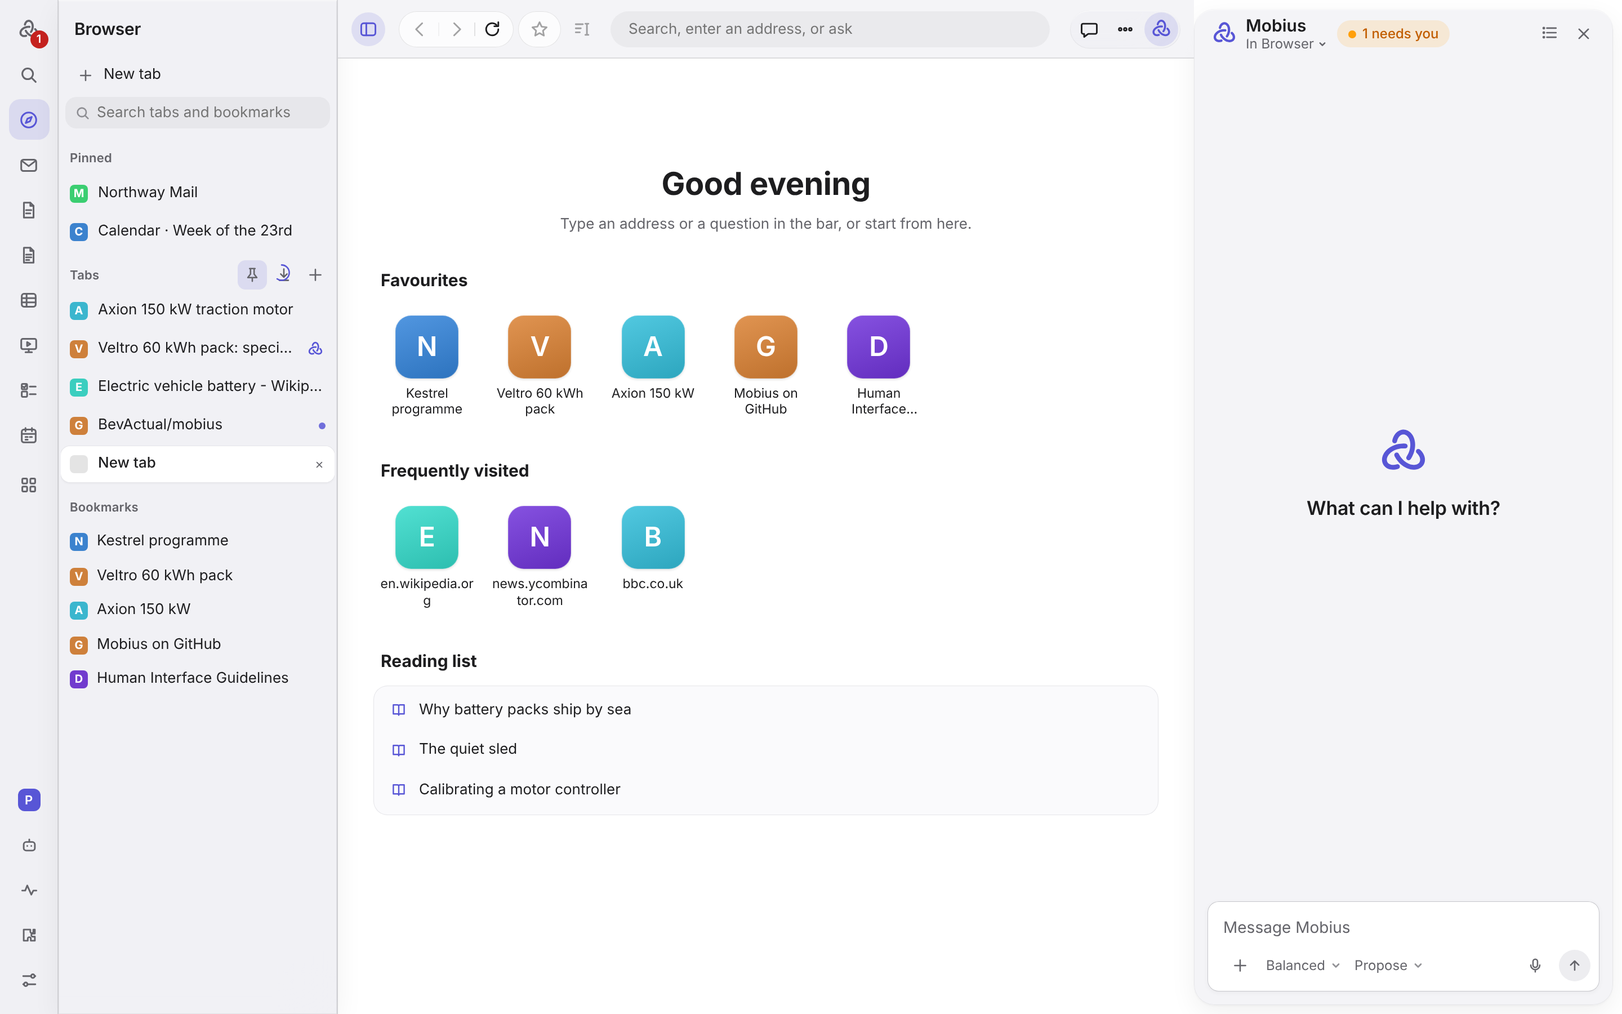
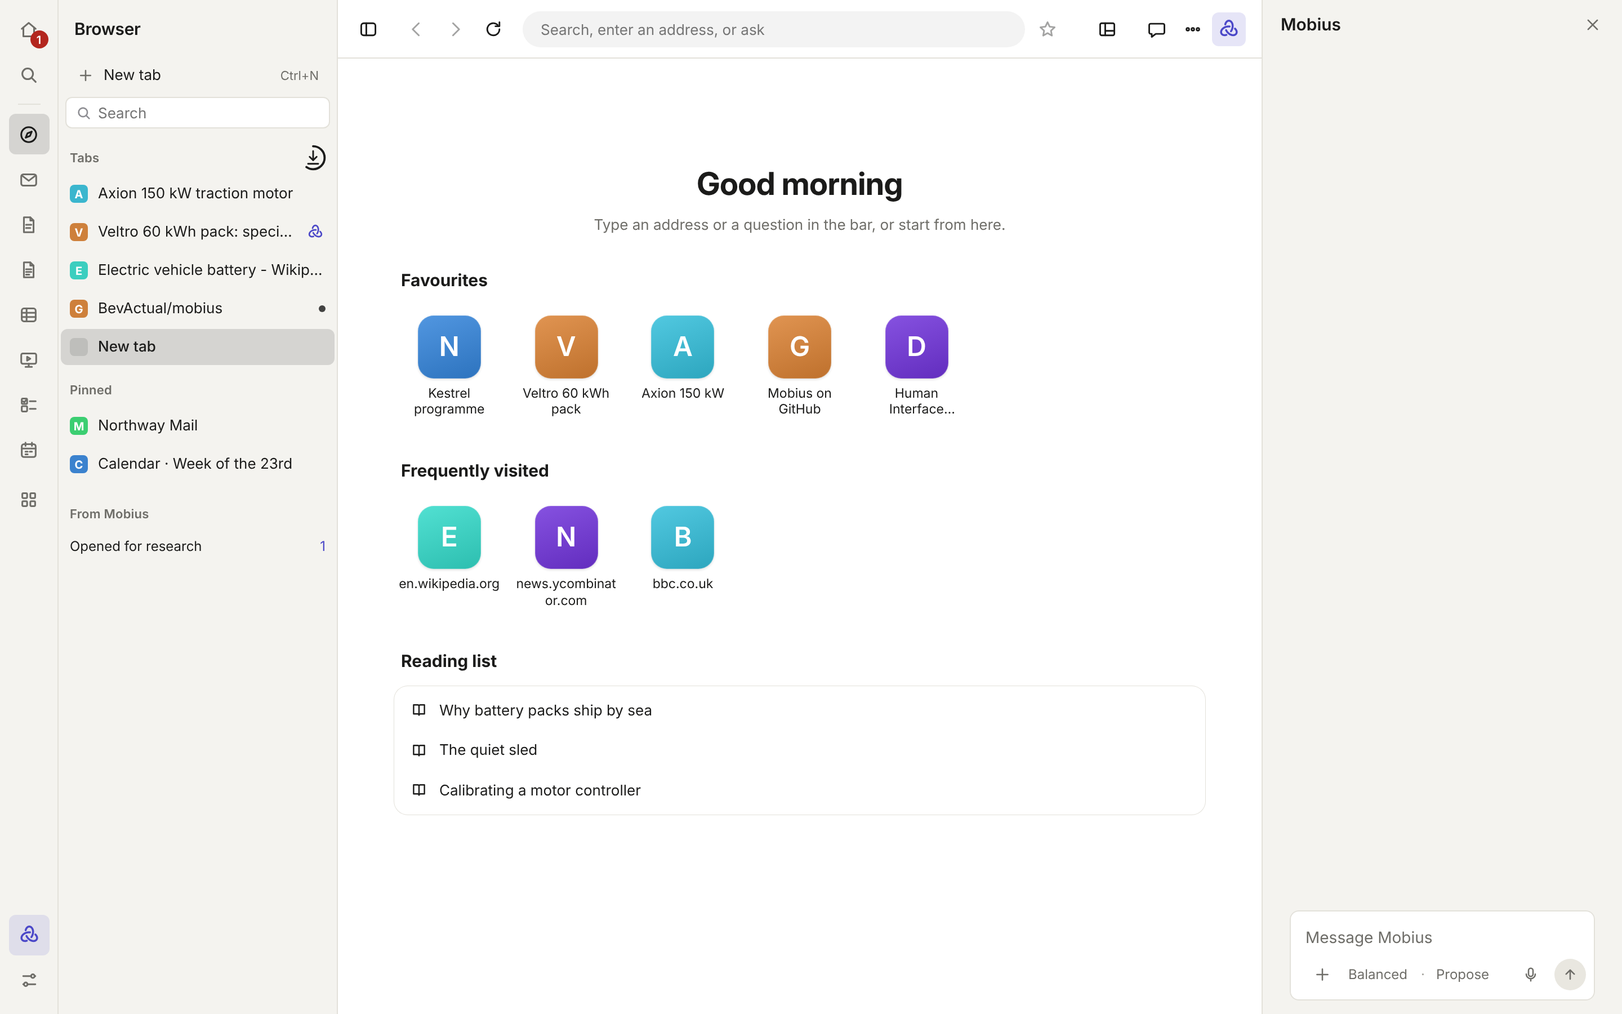
Browser: timeless redesign of the toolbar, sidebar and tab rows
Toolbar: back, forward, reload, the address (site in ink, path in grey) and the star;
pin and selected text move to the menus. Sidebar: Search, Tabs, Pinned, From Mobius.
Tab rows are plain; their buttons show on hover and make room for the title.

Claude-Session: https://claude.ai/code/session_01VRGwo7JFbuvwaD27M65Dsc

diff --git a/apps/desktop/src/Browser.tsx b/apps/desktop/src/Browser.tsx
@@ -53,11 +53,10 @@ function TabRow({ tab, onMenu, drag }: { tab: BrowserTabState; onMenu: (tab: Bro
         {tab.icon ? <img className="tab-icon" src={tab.icon} alt="" width={16} height={16} draggable={false} /> : <span className="tab-icon placeholder" aria-hidden="true" style={tab.url ? { ['--hue' as string]: tileHue(site) } : undefined}>{tab.url ? tileLetter(site) : ''}</span>}
         <span className="tab-title">{tab.title}</span>
         {tab.driver && (
-          // A small mark, not a word, so the title keeps its room: Mobius's mark while it reads or uses the tab, a hand once you took it over.
+          // A small mark, not a word, so the title keeps its room: Mobius's mark only while Mobius reads or uses the tab; once you
+          // took it over it is a plain row again (the words stay for screen readers).
           <span className="tab-driver" data-driver={tab.driver} title={TAB_DRIVER_TITLE[tab.driver]}>
-            {tab.driver === 'yours'
-              ? <svg viewBox="0 0 20 20" aria-hidden="true"><path d="M7 10V4.8a1.2 1.2 0 0 1 2.4 0V9m0-.5V3.8a1.2 1.2 0 0 1 2.4 0V9m0-.2V5a1.2 1.2 0 0 1 2.4 0v6.5c0 3-2 5-4.8 5-2 0-3.2-.9-4.4-2.6L4.2 11a1.2 1.2 0 0 1 2-1.3L7 11" /></svg>
-              : <MobiusMark size={14} turning={tab.driver === 'mobius'} />}
+            {tab.driver !== 'yours' && <MobiusMark size={14} turning={tab.driver === 'mobius'} />}
             <span className="sr-only">{TAB_DRIVER[tab.driver]}</span>
           </span>
         )}
@@ -165,17 +164,40 @@ export function BrowserSidebar({ tabs, pin, onNewTab, downloads, pinnedPages, on
   const bookmarks = useBookmarks();
   const drag = useTabDrag(tabs);
   const matches = (title: string, url: string) => sidebarMatch(query, title, url);
-  const pinned = tabs.filter((t) => t.pinned && matches(t.title, t.url));
-  const open = tabs.filter((t) => !t.pinned && matches(t.title, t.url));
-  const saved = bookmarks.filter((b) => matches(b.title, b.url)).slice(0, query ? 20 : 8);
+  // Tabs Mobius is reading or using for its work; "From Mobius" can narrow the list to them.
+  const fromMobius = tabs.filter((t) => t.driver === 'reading' || t.driver === 'mobius');
+  const [mobiusOnly, setMobiusOnly] = useState(false);
+  const only = mobiusOnly && fromMobius.length > 0;
+  const shown = (t: BrowserTabState) => matches(t.title, t.url) && (!only || t.driver === 'reading' || t.driver === 'mobius');
+  const pinned = tabs.filter((t) => t.pinned && shown(t));
+  const open = tabs.filter((t) => !t.pinned && shown(t));
+  const saved = bookmarks.filter((b) => matches(b.title, b.url)).slice(0, 20);
   const searching = query.trim() !== '';
   const row = (tab: BrowserTabState) => <TabRow key={tab.id} tab={tab} drag={drag} onMenu={(t, x, y) => setMenu({ tab: t, x, y })} />;
   const menuTab = menu ? tabs.find((t) => t.id === menu.tab.id) : undefined;
   return (
     <AppSidebar label="Browser sidebar">
       <div className="browser-side">
-        <SidebarSearch label="Search tabs and bookmarks" placeholder="Search tabs and bookmarks" value={query} onChange={setQuery} />
+        <SidebarSearch label="Search tabs and bookmarks" placeholder="Search" value={query} onChange={setQuery} />
         <div className="tab-lists" onDragLeave={(e) => { if (!e.currentTarget.contains(e.relatedTarget as Node)) drag.end(); }}>
+          <section className="ui-side-section" aria-label="Tabs">
+            <div className="side-head">
+              <h3 className="side-title">Tabs</h3>
+              <div className="side-actions">
+                {pin}
+                <button type="button" className="strip-btn" aria-label="New tab" title="New tab (Ctrl+T)" onClick={onNewTab}>
+                  <svg viewBox="0 0 20 20" aria-hidden="true"><path d="M10 4v12M4 10h12" /></svg>
+                </button>
+              </div>
+              {/* Downloads stays in sight, at the end of the head, while it has something to show; the other tools wait for the pointer. */}
+              <DownloadsButton entries={downloads} />
+            </div>
+            <ul className="tabs" role="list" aria-label="Open tabs">
+              <AnimatePresence initial={false}>{open.map(row)}</AnimatePresence>
+            </ul>
+            {!searching && !only && open.length === 0 && pinned.length > 0 && <p className="tabs-empty">No other tabs. Press Ctrl+T for a new one.</p>}
+            {searching && open.length === 0 && pinned.length === 0 && saved.length === 0 && <p className="tabs-empty">Nothing matches.</p>}
+          </section>
           {pinned.length > 0 && (
             <section className="ui-side-section" aria-label="Pinned">
               <div className="side-head"><h3 className="side-title">Pinned</h3></div>
@@ -184,31 +206,24 @@ export function BrowserSidebar({ tabs, pin, onNewTab, downloads, pinnedPages, on
               </ul>
             </section>
           )}
-          <section className="ui-side-section" aria-label="Tabs">
-            <div className="side-head">
-              <h3 className="side-title">Tabs</h3>
-              <div className="side-actions">
-                {pin}
-                <DownloadsButton entries={downloads} />
-                <button type="button" className="strip-btn" aria-label="New tab" title="New tab (Ctrl+T)" onClick={onNewTab}>
-                  <svg viewBox="0 0 20 20" aria-hidden="true"><path d="M10 4v12M4 10h12" /></svg>
-                </button>
-              </div>
-            </div>
-            <ul className="tabs" role="list" aria-label="Open tabs">
-              <AnimatePresence initial={false}>{open.map(row)}</AnimatePresence>
-            </ul>
-            {!searching && open.length === 0 && pinned.length > 0 && <p className="tabs-empty">No other tabs. Press Ctrl+T for a new one.</p>}
-            {searching && open.length === 0 && pinned.length === 0 && <p className="tabs-empty">No tabs match.</p>}
-          </section>
         </div>
-        {saved.length > 0 && (
+        {searching && saved.length > 0 && (
           <SidebarSection title="Bookmarks">
             {saved.map((b) => (
               <SidebarRow key={b.url} label={b.title || hostOf(b.url)} title={b.url} onSelect={() => onOpenBookmark(b.url)}
                 icon={<span className="tab-icon placeholder" aria-hidden="true" style={{ ['--hue' as string]: tileHue(hostOf(b.url)) }}>{tileLetter(hostOf(b.url))}</span>} />
             ))}
           </SidebarSection>
+        )}
+        {fromMobius.length > 0 && (
+          // The tabs Mobius opened for its work, as one row: pressed, Tabs shows only those.
+          <div className="from-mobius">
+            <h3 className="side-title from-mobius-title">From Mobius</h3>
+            <button type="button" className="from-mobius-filter" aria-pressed={mobiusOnly} aria-label={`Opened for research: ${fromMobius.length} tabs`} title={mobiusOnly ? 'Show every tab again' : 'Show only the tabs Mobius opened'} onClick={() => setMobiusOnly((on) => !on)}>
+              <span className="from-mobius-label">{mobiusOnly ? 'Showing only these' : 'Opened for research'}</span>
+              <span className="from-mobius-count">{fromMobius.length}</span>
+            </button>
+          </div>
         )}
         {menu && menuTab && <TabMenu tab={menuTab} x={menu.x} y={menu.y} tabs={tabs} pinnedPages={pinnedPages} onPinPage={onPinPage} onClose={closeMenu} />}
       </div>
@@ -271,20 +286,18 @@ export function BrowserChrome({ active, saved, selectionMenu, setSelectionMenu, 
             <svg viewBox="0 0 20 20" aria-hidden="true"><path d="M16 10a6 6 0 1 1-1.8-4.3M16 3v4h-4" /></svg>
           </button>
         </div>
+        <AddressBar active={active} address={address} draft={draft} setDraft={setDraft} setNotice={setNotice} onSubmit={onSubmit} onSuggesting={onSuggesting} />
         <div className="cap-group" role="group" aria-label="This page">
-        <button type="button" className="strip-btn" aria-pressed={saved} aria-label={saved ? 'Remove bookmark' : 'Bookmark this page'} title={saved ? 'Remove bookmark' : 'Bookmark this page'} disabled={!active || !/^https?:/.test(active.url)} onClick={() => void window.mobius.bookmarks.toggle()}>
+          <button type="button" className="strip-btn" aria-pressed={saved} aria-label={saved ? 'Remove bookmark' : 'Bookmark this page'} title={saved ? 'Remove bookmark' : 'Bookmark this page'} disabled={!active || !/^https?:/.test(active.url)} onClick={() => void window.mobius.bookmarks.toggle()}>
           <svg viewBox="0 0 20 20" aria-hidden="true"><path d="M10 3l2.1 4.4 4.9.6-3.6 3.4.9 4.8L10 13.8 5.7 16.2l.9-4.8L3 8l4.9-.6z" /></svg>
         </button>
         </div>
+        {/* Selected text… is in ⋯ (the Browser menu); its menu drops from the end of the address. */}
         <div className="selection-menu-wrap">
-          <button type="button" className="strip-btn" data-selection-ask aria-haspopup="menu" aria-expanded={selectionMenu} aria-label="Selected text" title="Do something with the text selected on this page" disabled={!active || !/^https?:/.test(active.url)} onClick={() => setSelectionMenu((open) => !open)}>
-            <svg viewBox="0 0 20 20" aria-hidden="true"><path d="M3.5 5h7M3.5 9h5M3.5 13h4" /><path d="M13 4.5h3M13 15.5h3M14.5 4.5v11" /></svg>
-          </button>
           {selectionMenu && selectionReady && (
             <SelectionMenu onClose={() => setSelectionMenu(false)} onChoose={onSelection} clipTo={clipTo} pages={clipPages} onClipTo={onClipTo} />
           )}
         </div>
-        <AddressBar active={active} address={address} draft={draft} setDraft={setDraft} setNotice={setNotice} onSubmit={onSubmit} onSuggesting={onSuggesting} />
         {notice && <span className="notice" role="status">{notice}</span>}
         {findOpen && active && <FindBar key={active.id} tabId={active.id} focusToken={finding} onClose={onCloseFind} />}
       </div>
@@ -363,7 +376,8 @@ function AddressBar({ active, address, draft, setDraft, setNotice, onSubmit, onS
       {parts && (
         <span className="address-rest" aria-hidden="true">
           {parts.secure && <svg viewBox="0 0 20 20"><path d="M6 9V7a4 4 0 0 1 8 0v2M5 9h10v8H5z" /></svg>}
-          <span>{parts.host}</span>
+          <span className="address-host">{parts.host}</span>
+          {parts.path && <span className="address-path">/ {parts.path}</span>}
         </span>
       )}
       {active?.loading && <span className="address-progress" role="status" aria-label="Loading" />}

diff --git a/apps/desktop/src/browser.css b/apps/desktop/src/browser.css
@@ -13,6 +13,7 @@
 .browser-side > .ui-side-section .list-row .tab-icon { width: 16px; height: 16px; border-radius: 4px; }
 
 /* The browser's controls take the toolbar's middle, so the address gets the room. */
+.ui-toolbar-slot:has(.browser-chrome) { flex: 1 1 auto; min-width: 0; justify-content: flex-start; }
 .ui-toolbar-group:has(> .browser-chrome) { flex: 1; min-width: 0; }
 .browser-chrome .address { min-width: 64px; }
 /* In a narrow toolbar the address keeps its room: the star and the selected-text button step out (both are in the
@@ -23,8 +24,9 @@
 }
 .browser-side .tab { position: relative; height: 32px; }
 .browser-side .tab-main { height: 32px; padding: 0 8px; gap: 9px; color: var(--ink); }
-.browser-side .tab:not([aria-current="page"]):hover { background: color-mix(in srgb, var(--ink) 5%, transparent); }
-.browser-side .tab[aria-current="page"] { background: var(--bg); box-shadow: 0 0 0 0.5px var(--line), 0 1px 2px rgba(0, 0, 0, 0.06); }
+/* Plain rows, as the other sidebars: the hover and the selection are the sidebar's own greys. */
+.browser-side .tab:not([aria-current="page"]):hover { background: var(--side-hover); }
+.browser-side .tab[aria-current="page"] { background: var(--side-select); box-shadow: none; }
 .browser-side .tab-title { flex: 1 1 auto; min-width: 0; font-size: var(--fs-md, 13px); }
 .browser-side .tab[aria-current="page"] .tab-title { font-weight: 500; }
 .browser-side .tab-icon { width: 16px; height: 16px; border-radius: 4px; }
@@ -37,18 +39,15 @@
 .browser-side .tab-loading { width: 6px; height: 6px; animation: tab-pulse var(--dur-loop) var(--ease) infinite; }
 @keyframes tab-pulse { 50% { opacity: 0.25; } }
 
-/* The row's buttons float over the end of the title, so a title gets the whole row until the pointer is on it. */
-.browser-side .tab-actions { position: absolute; right: 0; top: 0; bottom: 0; display: flex; align-items: center; gap: 0; padding: 0 3px 0 18px; border-radius: 0 var(--radius-control) var(--radius-control) 0; opacity: 0; background: linear-gradient(to right, transparent, var(--row-bg) 16px); --row-bg: color-mix(in srgb, var(--ink) 5%, var(--side-bg, var(--panel))); transition: opacity var(--dur-fast, var(--dur-fast)); }
-.browser-side .tab[aria-current="page"] .tab-actions { --row-bg: var(--bg); }
+/* The row's buttons sit at the end of the row; the title gets the whole row until the pointer is on it, then
+   makes room (the sidebar greys are see-through, so the buttons can't simply cover the title). */
+.browser-side .tab-actions { position: absolute; right: 0; top: 0; bottom: 0; display: flex; align-items: center; gap: 0; padding: 0 3px; opacity: 0; transition: opacity var(--dur-fast); }
 .browser-side .tab:hover .tab-actions, .browser-side .tab:focus-within .tab-actions { opacity: 1; }
+.browser-side .tab:hover .tab-main, .browser-side .tab:focus-within .tab-main { padding-right: 72px; }
 .browser-side .tab .tab-close { opacity: 1; width: 22px; height: 22px; margin: 0; color: var(--muted); }
 .browser-side .tab .tab-close svg { width: 11px; height: 11px; }
 .browser-side .tab[data-pinned="true"] .tab-pin { color: var(--accent); }
-/* The tab that is showing keeps its close button, as in Safari; its other buttons wait for the pointer. */
-.browser-side .tab[aria-current="page"] .tab-actions { opacity: 1; }
-.browser-side .tab[aria-current="page"]:not(:hover):not(:focus-within) .tab-actions > :not(.tab-x) { opacity: 0; }
-/* Until then only the close button's end of the row is covered, so the hidden buttons do not hide the end of its title. */
-.browser-side .tab[aria-current="page"]:not(:hover):not(:focus-within) .tab-actions { background: linear-gradient(to right, transparent calc(100% - 42px), var(--row-bg) calc(100% - 26px)); }
+/* Every row, the showing one too, keeps its buttons (close, pin, duplicate) out of sight until the pointer is on it. */
 .browser-side .tabs-empty { margin: 2px 8px; font-size: var(--fs-sm); color: var(--muted); }
 
 /* Dragging: the tab being moved fades, and a line shows where it will land. */
@@ -62,8 +61,11 @@
 /* The address bar: the site's name at rest, the whole address while editing. */
 .address[data-editing] .address-rest { display: none; }
 .address:not([data-editing]) input:not(:placeholder-shown) { color: transparent; caret-color: transparent; }
-.address-rest { position: absolute; inset: 0; display: flex; align-items: center; justify-content: center; gap: 5px; padding: 0 12px; pointer-events: none; color: var(--ink); font-size: var(--fs-md, 13px); white-space: nowrap; overflow: hidden; }
+.address-rest { position: absolute; inset: 0; display: flex; align-items: center; justify-content: flex-start; gap: 6px; padding: 0 12px; pointer-events: none; color: var(--ink); font-size: var(--fs-md, 13px); white-space: nowrap; overflow: hidden; }
 .address-rest > span { overflow: hidden; text-overflow: ellipsis; }
+/* The site's name in ink, the rest of the address in grey after it, as in the mock. */
+.address-rest .address-host { flex: none; max-width: 60%; font-weight: var(--fw-medium, 500); }
+.address-rest .address-path { flex: 0 1 auto; min-width: 0; color: var(--muted); }
 .address-rest svg { flex: none; width: 12px; height: 12px; fill: none; stroke: var(--muted); stroke-width: 1.6; stroke-linecap: round; stroke-linejoin: round; }
 .address input { text-overflow: ellipsis; }
 .address[data-editing] input { text-align: left; }
@@ -120,7 +122,8 @@
 .start-page .start-reading svg { flex: none; width: 16px; height: 16px; fill: none; stroke: var(--accent); stroke-width: 1.5; stroke-linejoin: round; }
 
 /* Downloads: a button in the sidebar's head with a ring for progress, and a popover that drops down inside the sidebar. */
-.browser-side > .side-head { position: relative; }
+.browser-side .side-head { position: relative; }
+.browser-side .side-head > .side-actions { margin-left: auto; }
 .browser-side .dl-wrap { display: inline-flex; }
 .browser-side .dl-button { position: relative; }
 .browser-side .dl-button[data-busy] { color: var(--accent); }
@@ -134,6 +137,7 @@
 .browser-side .dl-actions { gap: 10px; }
 .browser-side .dl-btn { height: auto; padding: 0; font-size: var(--fs-sm); color: var(--accent); background: none; }
 .browser-side .dl-btn:hover { text-decoration: underline; text-underline-offset: 2px; }
-/* A bookmarked or pinned page shows in the accent colour, drawn in outline like the other tools. */
-.strip-middle .strip-btn[aria-pressed="true"] svg { fill: none; }
+/* A saved page shows a filled star, not a pressed box. */
+.browser-chrome [aria-label="This page"] .strip-btn[aria-pressed="true"] { background: none; }
+.browser-chrome [aria-label="This page"] .strip-btn[aria-pressed="true"] svg { fill: currentColor; }
 .browser-side .dl-item .dl-btn { align-self: flex-start; }

diff --git a/apps/desktop/src/browser-view.ts b/apps/desktop/src/browser-view.ts
@@ -9,12 +9,14 @@ import type { BookmarkEntry, BrowserTabState, HistoryEntry } from '@mobius/share
 export const hostOf = (url: string): string => { try { return new URL(url).hostname.replace(/^www\./, '') || url; } catch { return url; } };
 
 /** An address as Safari shows it at rest: whether the connection is private, and the site's name alone. */
-export function addressParts(url: string): { secure: boolean; host: string } | null {
+export function addressParts(url: string): { secure: boolean; host: string; path: string } | null {
   if (!url || !/^(https?|file):/i.test(url)) return null;
   try {
     const u = new URL(url);
-    if (u.protocol === 'file:') return { secure: false, host: decodeURIComponent(u.pathname.split('/').pop() || 'File') };
-    return { secure: u.protocol === 'https:', host: u.hostname.replace(/^www\./, '') };
+    if (u.protocol === 'file:') return { secure: false, host: decodeURIComponent(u.pathname.split('/').pop() || 'File'), path: '' };
+    // The path after the site's name, without its first slash or a lone trailing one ("packs/60kwh"); empty on a site's home.
+    const path = decodeURIComponent(`${u.pathname}${u.search}`).replace(/^\//, '').replace(/\/$/, '');
+    return { secure: u.protocol === 'https:', host: u.hostname.replace(/^www\./, ''), path };
   } catch {
     return null;
   }

diff --git a/apps/desktop/src/browser-view.test.ts b/apps/desktop/src/browser-view.test.ts
@@ -6,9 +6,10 @@ const tab = (id: string, url: string, title: string, extra: Partial<BrowserTabSt
 
 describe('the address at rest', () => {
   it('shows the site name and whether the connection is private', () => {
-    expect(addressParts('https://www.veltro.example/packs?x=1')).toEqual({ secure: true, host: 'veltro.example' });
-    expect(addressParts('http://localhost:5173/')).toEqual({ secure: false, host: 'localhost' });
-    expect(addressParts('file:///C:/Users/me/Report%201.pdf')).toEqual({ secure: false, host: 'Report 1.pdf' });
+    expect(addressParts('https://www.veltro.example/packs?x=1')).toEqual({ secure: true, host: 'veltro.example', path: 'packs?x=1' });
+    expect(addressParts('https://axion.example/motors/150/')).toEqual({ secure: true, host: 'axion.example', path: 'motors/150' });
+    expect(addressParts('http://localhost:5173/')).toEqual({ secure: false, host: 'localhost', path: '' });
+    expect(addressParts('file:///C:/Users/me/Report%201.pdf')).toEqual({ secure: false, host: 'Report 1.pdf', path: '' });
   });
   it('leaves anything else as it is', () => {
     expect(addressParts('')).toBeNull();

diff --git a/apps/desktop/e2e/tabs-extra.spec.ts b/apps/desktop/e2e/tabs-extra.spec.ts
@@ -27,11 +27,12 @@ const openIn = async (path: string) => {
   await address.press('Enter');
 };
 
-test('a tab can be pinned to the front, and unpinned', async () => {
+test('a tab can be pinned, and unpinned', async () => {
   await openIn('/second');
   await expect(titles()).toHaveText(['Fixture home', 'Second page']);
   await shell().getByRole('button', { name: 'Pin Second page' }).click();
-  await expect(titles()).toHaveText(['Second page', 'Fixture home']);
+  await expect(shell().getByRole('list', { name: 'Pinned tabs' }).locator('.tab-title')).toHaveText(['Second page']);
+  await expect(shell().getByRole('list', { name: 'Open tabs' }).locator('.tab-title')).toHaveText(['Fixture home']);
   await expect(shell().getByRole('button', { name: 'Unpin Second page' })).toHaveAttribute('aria-pressed', 'true');
   await shell().getByRole('button', { name: 'Unpin Second page' }).click();
   await expect(shell().getByRole('button', { name: 'Pin Second page' })).toHaveAttribute('aria-pressed', 'false');

diff --git a/apps/desktop/e2e/browser-tabs.spec.ts b/apps/desktop/e2e/browser-tabs.spec.ts
@@ -48,7 +48,8 @@ test('a tab has a menu: pin it, then close the others', async () => {
   const menu = shell().getByRole('menu', { name: 'Second page' });
   await menu.getByRole('menuitem', { name: 'Pin tab' }).click();
   await expect(menu).toHaveCount(0);
-  await expect(titles()).toHaveText(['Second page', 'Fixture home', 'Fixture home']);
+  // Pinned tabs sit in their own list under the open tabs.
+  await expect(titles()).toHaveText(['Fixture home', 'Fixture home', 'Second page']);
   await expect(shell().getByRole('list', { name: 'Pinned tabs' }).locator('.tab-title')).toHaveText(['Second page']);
   await shell().locator('.tab', { hasText: 'Second page' }).click({ button: 'right' });
   await shell().getByRole('menuitem', { name: 'Close other tabs' }).click();

diff --git a/docs/apps/browse-and-find.md b/docs/apps/browse-and-find.md
@@ -6,11 +6,14 @@ A full web browser, with Mobius able to read and work on pages for you.
 
 ![The Browser app in Mobius](../readme/apps/browser.png)
 
-- **The sidebar** holds a search for your tabs and bookmarks, then **Pinned**, **Tabs** and **Bookmarks**. Back,
-  forward, reload and the address are in the toolbar; the address suggests open tabs, bookmarks and history as you type.
-- **Tabs** live in the sidebar, as in Safari and Arc. Pinned tabs sit in their own group above the rest; drag a tab to
-  reorder it or across the line to pin it. A small Mobius mark on a tab means Mobius is reading or using it; a hand means
-  you took it back.
+- **The toolbar** has back, forward and reload, the address (the site in full ink, the rest of the address in grey),
+  and the star. Everything else about the page (Save to Reader, selected text, pin to the sidebar) is in **⋯**. The address suggests open
+  tabs, bookmarks and history as you type.
+- **The sidebar** holds New tab (Ctrl+T), a search for your tabs and bookmarks, then **Tabs**, **Pinned** and **From
+  Mobius**. Tabs live in the sidebar, as in Safari and Arc: each is a plain row whose buttons (pin, duplicate, close)
+  show when the pointer is on it, and right-clicking a tab gives the rest. Drag a tab to reorder it or across the line
+  to pin it. The Mobius mark shows only on tabs Mobius opened or is using; **From Mobius › Opened for research** shows
+  just those.
 - **A new tab** opens Mobius's start page: your favourites, other sites you visit most, and your reading list. It is drawn
   by Mobius, so none of it is shown to a web page.
 - **Bookmarks** with the star beside the address, **Find** (Ctrl+F), downloads and history. To pin a page to the
